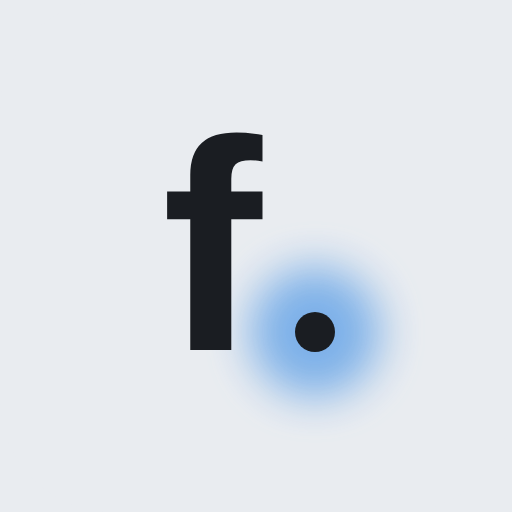
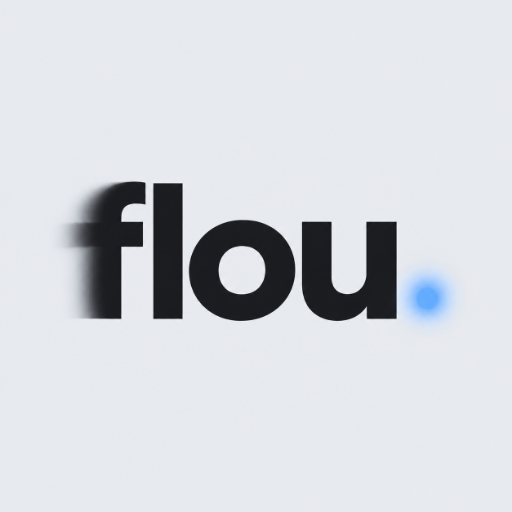
Introduce full flou wordmark with diffused f and blue halo punctuation

Changed region(s): [[0.125, 0.25, 0.9062, 0.8125]]

diff --git a/src/main.js b/src/main.js
@@ -14,6 +14,7 @@ import {
   PillButton as btn,
   GlassSurface as glass,
   Halo,
+  LogoWordmark,
   PlayerChip,
   letters,
   secretLetters,
@@ -95,7 +96,7 @@ function safeClose() {
   if (t) t.textContent = "Reprendre";
 }
 function header() {
-  return `<header><button class="wordmark" data-action="home" aria-label="Accueil flou.">flou<span>.</span></button><button class="rule-link" data-action="rules">Règles</button></header>`;
+  return `<header><button class="wordmark" data-action="home" aria-label="Accueil flou.">${LogoWordmark()}</button><button class="rule-link" data-action="rules">Règles</button></header>`;
 }
 const meta = (step, label) =>
   `<div class="screen-meta"><span>${label}</span><span class="mono">${step}</span></div>`;
@@ -106,7 +107,7 @@ function counter(title, description, key, value, min, max) {
   return `<div class="counter"><div><h2>${title}</h2><p class="note">${description}</p></div><div class="stepper">${btn("−", `${key}-minus`, "step", `aria-label="Réduire ${title}" ${value <= min ? "disabled" : ""}`)}<output class="mono">${value}</output>${btn("+", `${key}-plus`, "step", `aria-label="Augmenter ${title}" ${value >= max ? "disabled" : ""}`)}</div></div>`;
 }
 function home() {
-  return `<main class="home"><div class="home-copy"><p class="eyebrow">Le jeu des mots à demi dits</p><h1>flou<span>.</span></h1><p class="home-specimen"><span>La vérité.</span><span>Ou presque.</span></p><p class="home-description">Un téléphone passe.<br>Le doute reste.</p></div><div class="home-bottom"><p class="note">3 à 20 joueurs · Ensemble, autour d’une table.</p>${btn("Nouvelle partie", "setup")}<button class="text-button" data-action="rules">Comment jouer ?</button>${installPrompt ? btn("Installer sur mon téléphone", "install", "secondary") : ""}<p class="tiny">Sans compte. Sans bruit. Entre vous.</p></div></main>`;
+  return `<main class="home"><div class="home-copy"><p class="eyebrow">Le jeu des mots à demi dits</p><h1 aria-label="flou.">${LogoWordmark()}</h1><p class="home-specimen"><span>La vérité.</span><span>Ou presque.</span></p><p class="home-description">Un téléphone passe.<br>Le doute reste.</p></div><div class="home-bottom"><p class="note">3 à 20 joueurs · Ensemble, autour d’une table.</p>${btn("Nouvelle partie", "setup")}<button class="text-button" data-action="rules">Comment jouer ?</button>${installPrompt ? btn("Installer sur mon téléphone", "install", "secondary") : ""}<p class="tiny">Sans compte. Sans bruit. Entre vous.</p></div></main>`;
 }
 function setup() {
   const max = Math.ceil(settings.names.length / 2) - 1;

diff --git a/src/style.css b/src/style.css
@@ -119,9 +119,6 @@ header button {
   letter-spacing: -0.04em;
   font-size: 25px;
 }
-.wordmark span {
-  color: var(--brume);
-}
 .rule-link {
   font-size: var(--text-support);
   color: var(--brume);
@@ -264,9 +261,6 @@ body[data-phase="white"] .halo {
   margin: 16px -10px 24px;
   line-height: 1.1;
   font-weight: 700;
-}
-.home h1 span {
-  color: var(--brume);
 }
 body[data-phase="home"] header .wordmark {
   visibility: hidden;
@@ -1129,4 +1123,49 @@ select {
   overflow: visible;
   fill: currentColor;
   transform-origin: center;
+}
+
+/* Live wordmark: crisp lettering, a gently diffused f, and a blue halo dot. */
+.logo-wordmark {
+  display: inline-flex;
+  align-items: baseline;
+  color: var(--encre);
+  font-weight: 700;
+  letter-spacing: -0.055em;
+  line-height: 1.1;
+}
+.logo-f {
+  position: relative;
+  display: inline-block;
+  filter: blur(0.009em);
+}
+.logo-f::before {
+  content: "f";
+  position: absolute;
+  inset: 0;
+  transform: translateX(-0.035em);
+  filter: blur(0.035em);
+  opacity: 0.45;
+}
+.logo-sharp {
+  display: inline-block;
+}
+.logo-dot {
+  position: relative;
+  display: inline-block;
+  width: 0.12em;
+  height: 0.12em;
+  margin-left: 0.065em;
+  background: #77ade8;
+  border-radius: 50%;
+  filter: blur(0.015em);
+}
+.logo-dot::after {
+  content: "";
+  position: absolute;
+  inset: -0.05em;
+  border-radius: 50%;
+  background: #77ade8;
+  filter: blur(0.055em);
+  opacity: 0.75;
 }

diff --git a/index.html b/index.html
@@ -12,8 +12,8 @@
       content="Un téléphone. Deux mots. Des amis beaucoup trop suspects. Le jeu de l'imposteur pour vos soirées."
     />
     <link rel="manifest" href="./manifest.webmanifest" />
-    <link rel="icon" href="./icon.svg?v=point-bleu" type="image/svg+xml" />
-    <link rel="apple-touch-icon" href="./apple-touch-icon.png?v=point-bleu" />
+    <link rel="icon" href="./logo.png?v=mot-symbole" type="image/svg+xml" />
+    <link rel="apple-touch-icon" href="./apple-touch-icon.png?v=mot-symbole" />
     <meta name="apple-mobile-web-app-capable" content="yes" />
     <meta name="apple-mobile-web-app-status-bar-style" content="default" />
     <title>flou. — Le jeu des mots secrets</title>

diff --git a/vite.config.js b/vite.config.js
@@ -17,11 +17,11 @@ export default defineConfig({
         );
         const files = [
           "manifest.webmanifest",
-          "icon.svg?v=point-bleu",
-          "icon-192.png?v=point-bleu",
-          "icon-512.png?v=point-bleu",
-          "icon-maskable.png?v=point-bleu",
-          "apple-touch-icon.png?v=point-bleu",
+          "logo.png?v=mot-symbole",
+          "icon-192.png?v=mot-symbole",
+          "icon-512.png?v=mot-symbole",
+          "icon-maskable.png?v=mot-symbole",
+          "apple-touch-icon.png?v=mot-symbole",
           ...Object.keys(bundle).filter((name) => name !== "index.html"),
         ];
         const hash = createHash("sha256")

diff --git a/src/components.js b/src/components.js
@@ -6,6 +6,8 @@ export const escape = (s) =>
         c
       ],
   );
+export const LogoWordmark = () =>
+  '<span class="logo-wordmark" aria-hidden="true"><span class="logo-f">f</span><span class="logo-sharp">lou</span><span class="logo-dot"></span></span>';
 export const PillButton = (label, action, kind = "primary", extra = "") =>
   `<button class="pill ${kind}" data-action="${action}" ${extra.includes("type=") ? "" : 'type="button"'} ${extra}>${label}</button>`;
 export const GlassSurface = (content, classes = "") =>

diff --git a/README.md b/README.md
@@ -76,6 +76,6 @@ Pendant le débat et le vote, « Revoir ma carte » permet aux joueurs encore en
 
 Deux halos bleus bien visibles suivent des mouvements continus indépendants. Leurs trajectoires et vitesses varient doucement, sans boucle fixe ni arrêt aux points de passage. Le mouvement se limite à 30 images par seconde et se suspend en arrière-plan ou si la réduction des animations est activée.
 
-L’icône « f. » et son halo bleu derrière le point sont définis dans `public/icon.svg`. Après modification, régénérer les formats d’installation avec `node scripts/generate-icons.mjs` (Chromium Playwright installé, ou `PLAYWRIGHT_CHROMIUM_EXECUTABLE_PATH` défini). Les URL des icônes portent une version commune avec le préchargement hors ligne. Le flou d’accueil de « la vérité » est de 2 px ; les cartes secrètes gardent leur flou de protection distinct.
+Le logo complet « flou. » est enregistré dans `public/logo.png` : f diffus, lou net et halo bleu à la place du point. Le mot-symbole de l’interface utilise la même direction typographique en texte accessible. Après modification, régénérer les formats d’installation avec `node scripts/generate-icons.mjs` (Chromium Playwright installé, ou `PLAYWRIGHT_CHROMIUM_EXECUTABLE_PATH` défini). Les URL des icônes portent une version commune avec le préchargement hors ligne. Le flou d’accueil de « la vérité » est de 2 px ; les cartes secrètes gardent leur flou de protection distinct.
 
 Les halos ont une silhouette SVG qui évolue lentement du rond à l’ovale puis à deux lobes reliés. Les contours restent continus, avec une taille de jonction positive ; la déformation et la rotation se suspendent avec la réduction des animations. La géométrie est actualisée à 10 images par seconde au maximum, indépendamment du déplacement.
